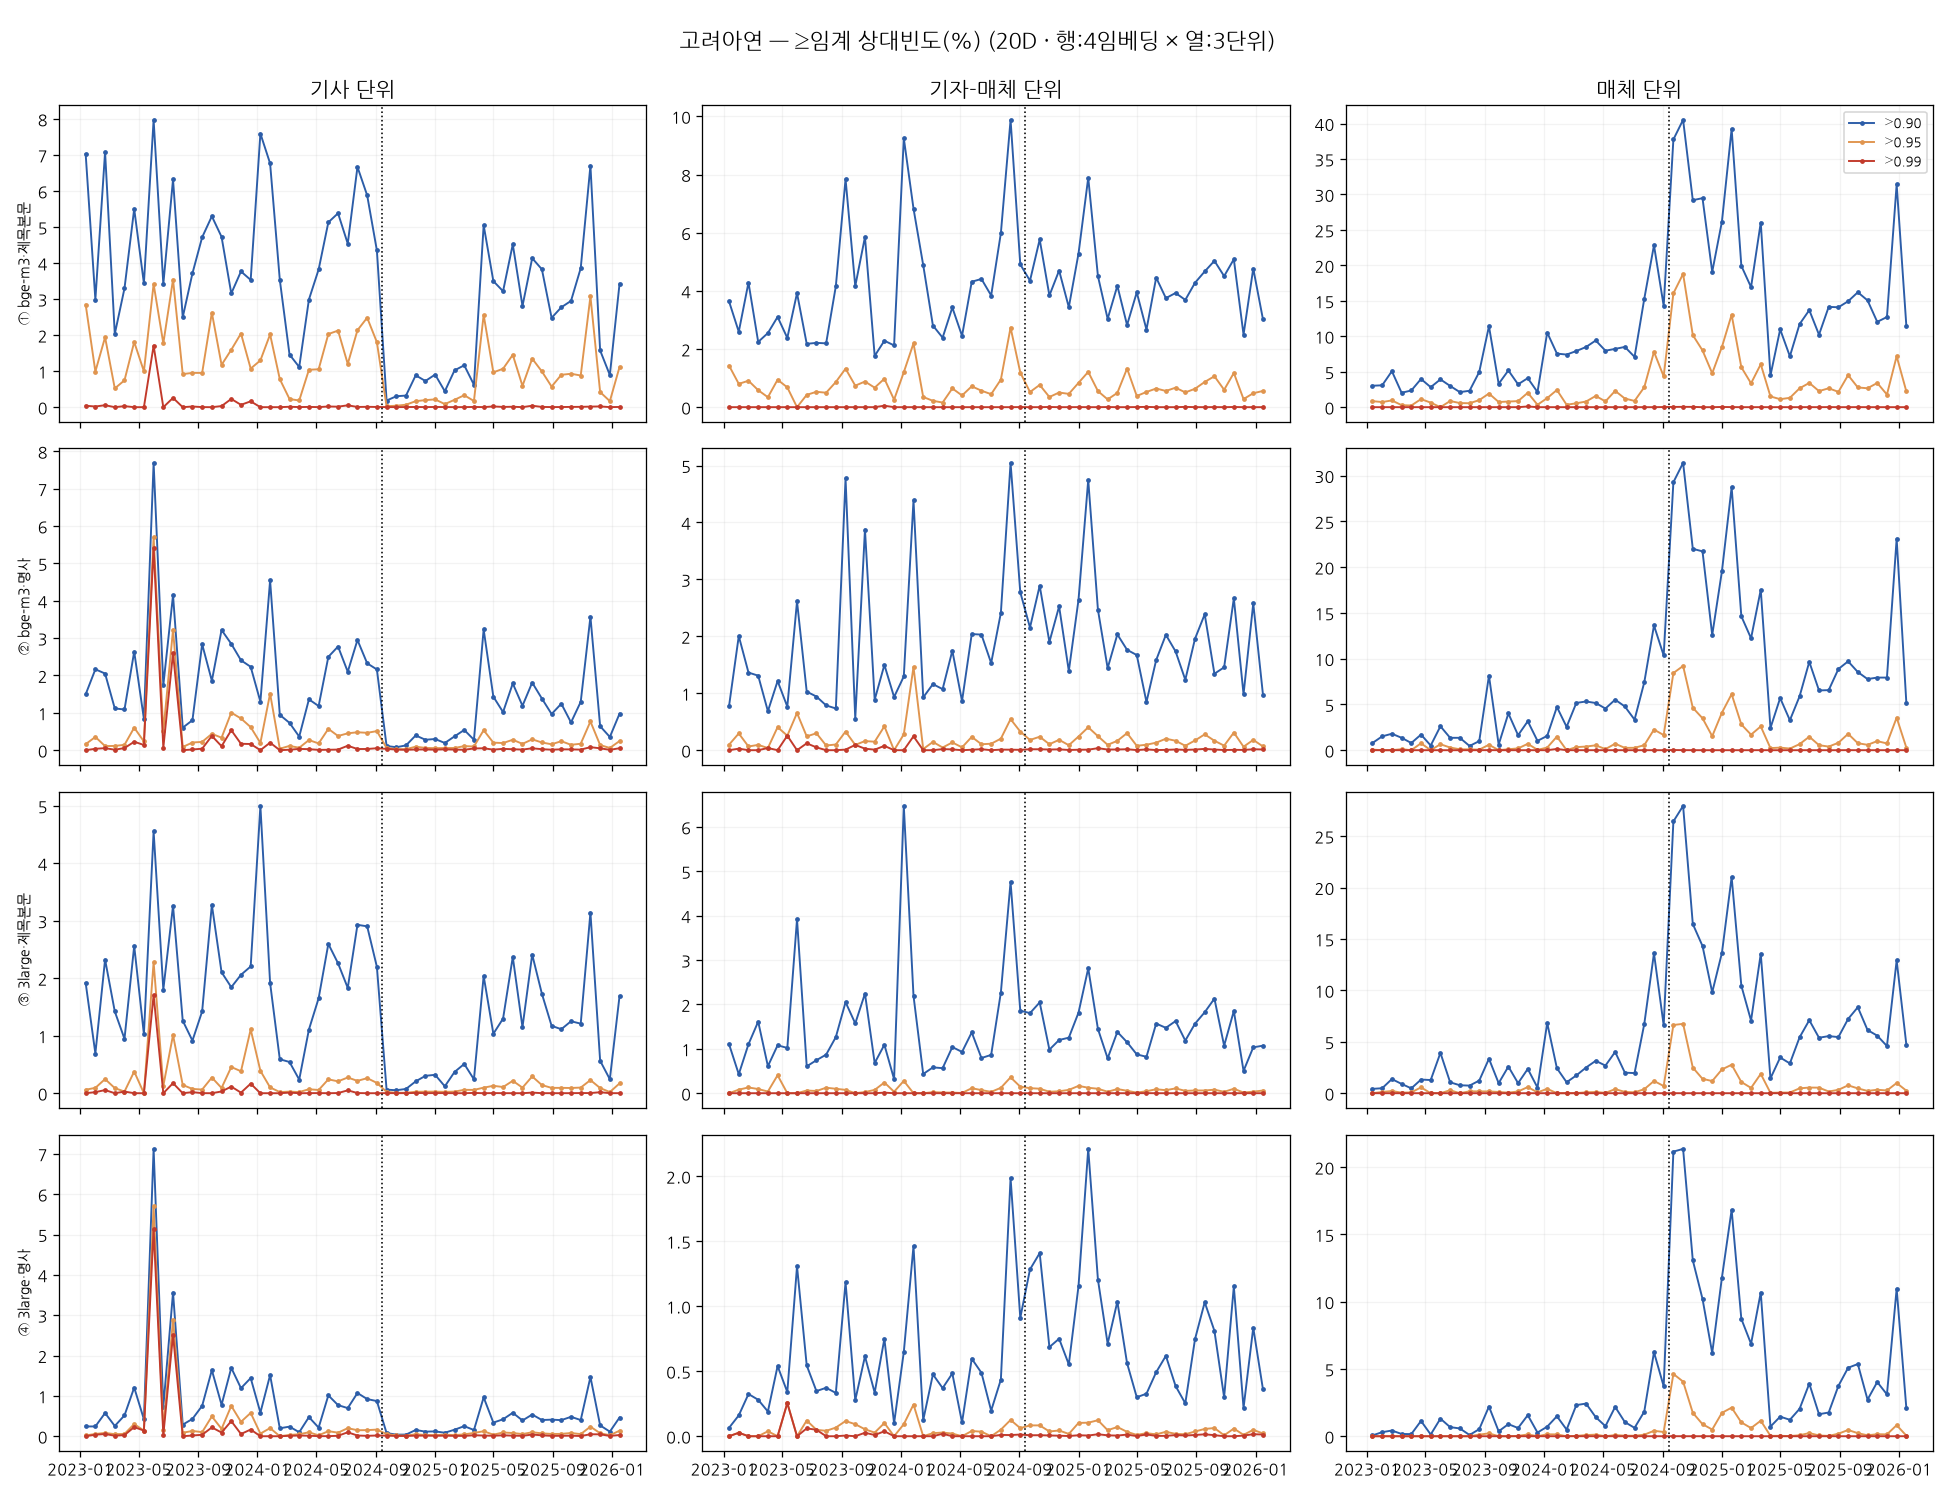
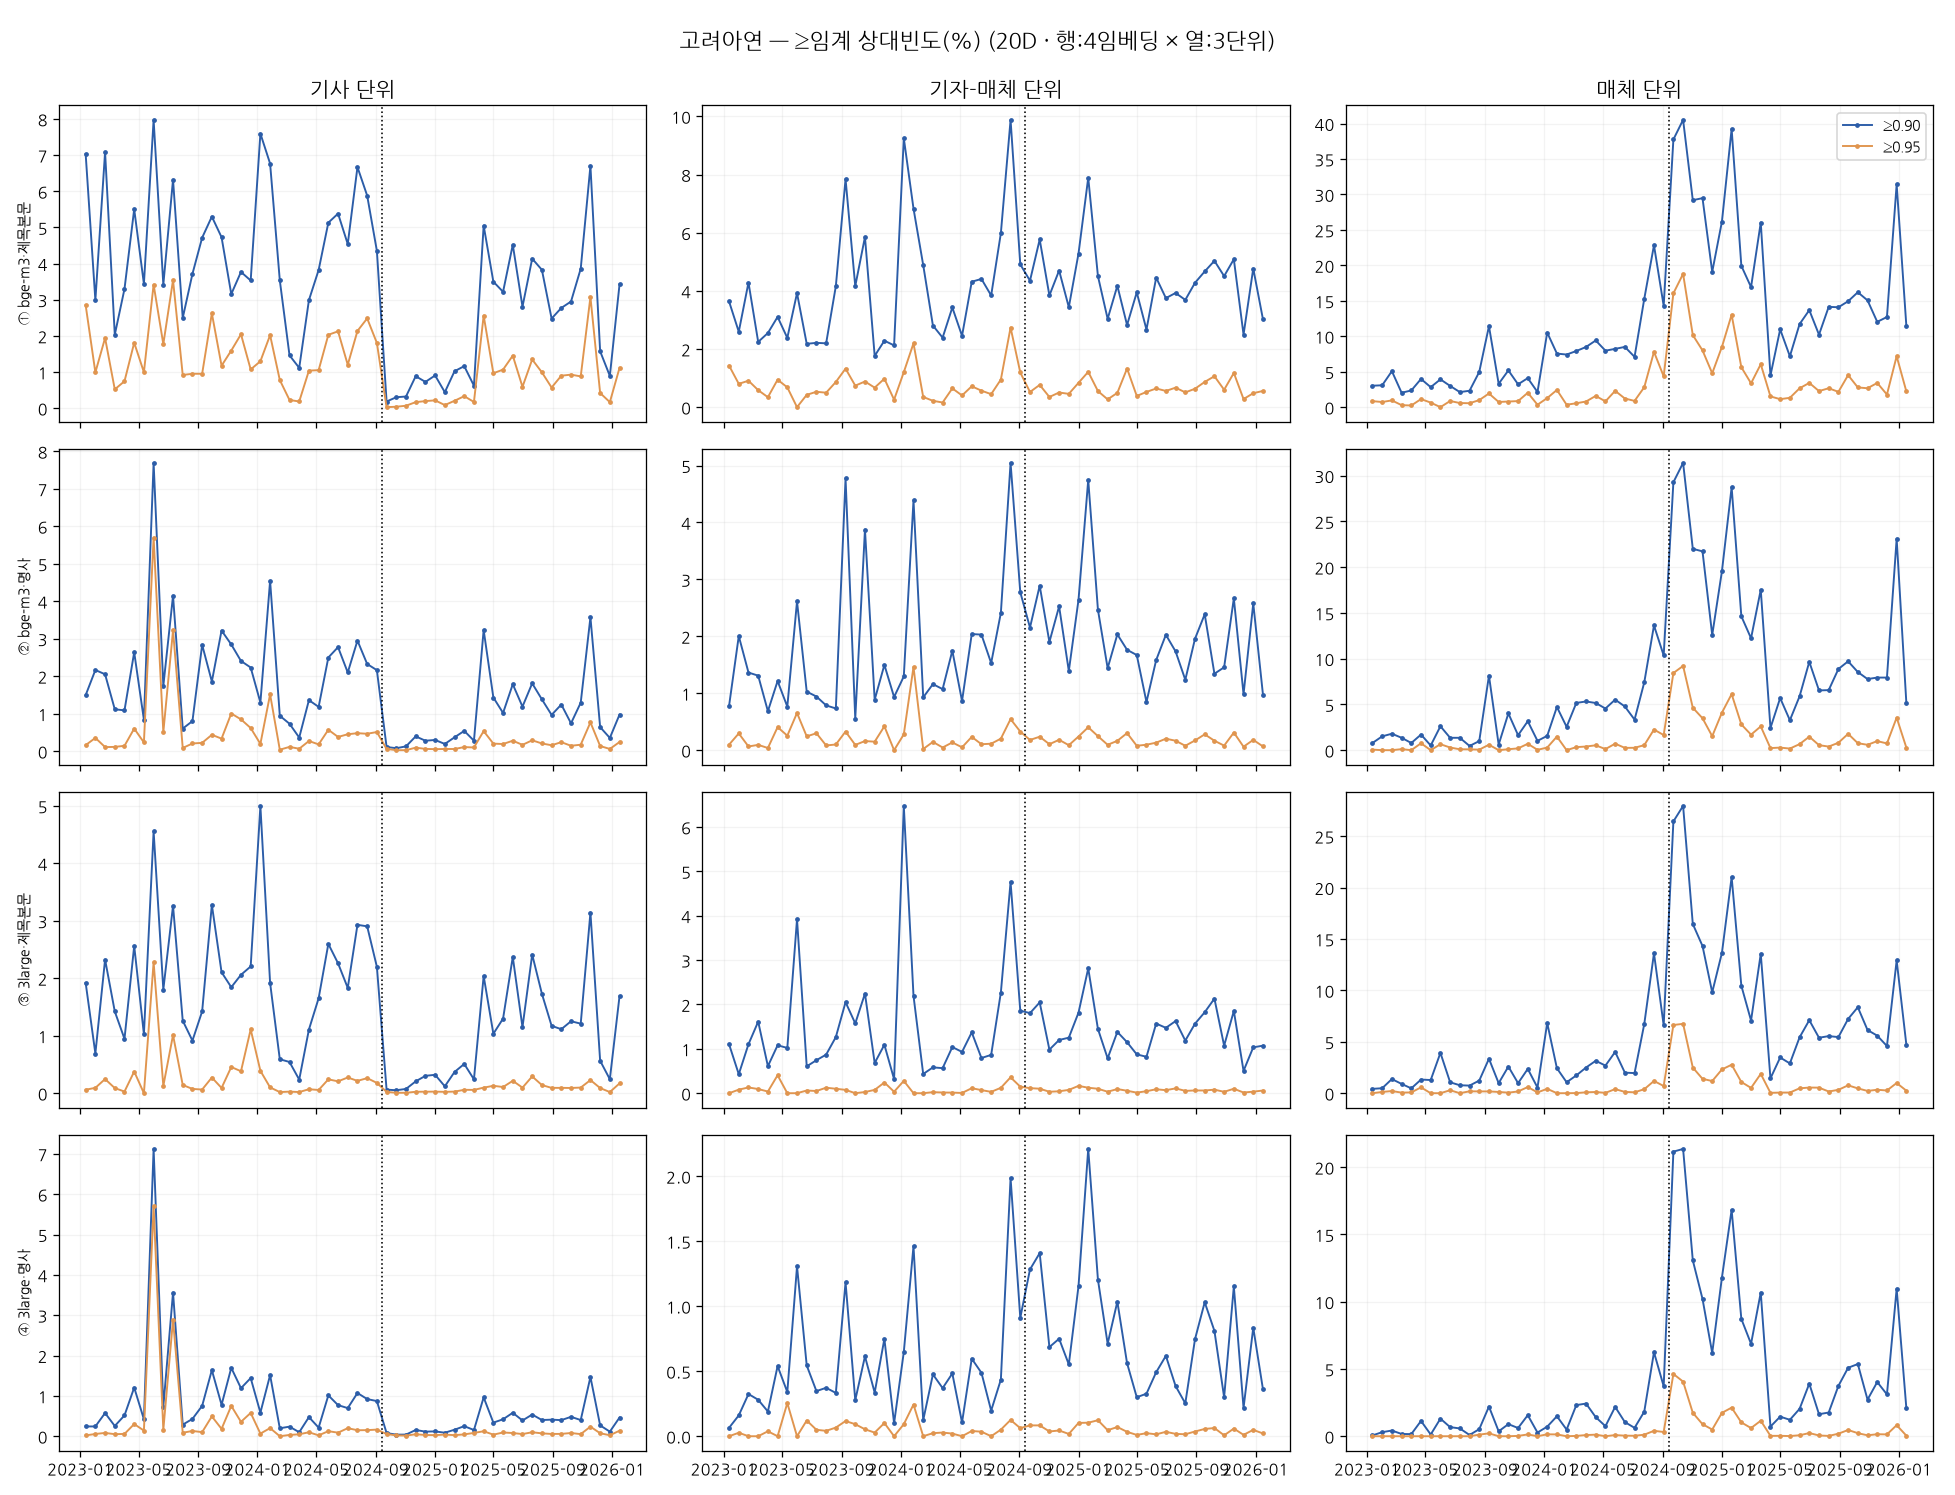
그림에서 ≥0.99 라인 제거(0.90·0.95만), 0.99 결과는 본문에 문단으로 보고

diff --git a/index.html b/index.html
@@ -146,7 +146,7 @@
 
 <figure>
   <img src="assets/syn_relthr.png" alt="임계 이상 상대빈도 4임베딩×3단위">
-  <figcaption><b>그림 1.</b> 임계(0.90·0.95·0.99) 이상 기사쌍 <b>상대빈도(%)</b> — 행 4임베딩 × 열 3단위(기사·기자매체·매체), 20일 창. 매체 단위(맨 오른쪽)에서 공개매수일(점선) 직후 ≥0.90 비중이 0%대에서 급증한다. 기사 단위(왼쪽)는 노이즈에 묻혀 신호가 보이지 않는다.</figcaption>
+  <figcaption><b>그림 1.</b> 임계(0.90·0.95) 이상 기사쌍 <b>상대빈도(%)</b> — 행 4임베딩 × 열 3단위(기사·기자매체·매체), 20일 창. 매체 단위(맨 오른쪽)에서 공개매수일(점선) 직후 ≥0.90 비중이 0%대에서 급증한다. 기사 단위(왼쪽)는 노이즈에 묻혀 신호가 보이지 않는다. (≥0.99 임계는 매체 단위에서 거의 0이라 그림에서 제외하고 본문에 보고한다.)</figcaption>
 </figure>
 
 <p>매체 단위에서 동조화가 드러나는 이유는 분화와 수렴의 분리에 있다. 사건은 공개매수·금융·법적·정치 등 여러 각도로 보도를 분화시킨다. 그래서 개별 기사 쌍은 서로 닮지 않아 기사 단위에서 신호가 희석된다. 그러나 각 매체의 보도를 centroid로 평균하면 그 매체의 전반적 방향이 남는다. 사건 후 모든 매체의 방향이 같은 사건으로 수렴하므로 매체 간 유사도가 폭증한다.</p>
@@ -165,6 +165,8 @@
     <tr><td class="l hl">매체</td><td><b>0.667 → 0.771</b> (Δ+0.10)</td><td><b>6.6% → 19.4%</b> (Δ+12.8%p)</td><td class="hl">동조화 ✓</td></tr>
   </tbody>
 </table>
+
+<p>거의 동일한(≥0.99) 기사쌍의 변화는 동조화의 극단을 따로 보여준다. 본 분석은 0.90·0.95와 함께 0.99 임계도 산출하였다. 기사 단위에서 ≥0.99 near-duplicate 쌍의 절대 수는 사건 후 약 10배로 늘었다(8건→86건). 그러나 그 비중은 오히려 줄었는데(0.09%→0.01%), 보도 분화가 분모를 키웠기 때문이다. 매체 단위에서는 centroid 평균화로 ≥0.99가 거의 나타나지 않아, 그림에서는 제외하고 본문에만 보고한다.</p>
 
 <h3>5.2 통계 검정 결과</h3>
 <p>매체 단위 동조화의 사후 상승은 통계적으로 압도적으로 유의하다. 네 임베딩 모두에서 사후 평균 유사도가 유의하게 높았다(p&lt;10⁻⁷). 매우 유사한 ≥0.9 매체쌍의 비중도 모두 유의하게 상승하였다(p&lt;10⁻⁷). 보도 매체 수는 평균 76개에서 219개로 늘었다(음이항 회귀, p&lt;10⁻⁶¹). 즉 동조화는 더 많은 매체가 같은 방향으로 합류하는 형태로 진행된다.</p>